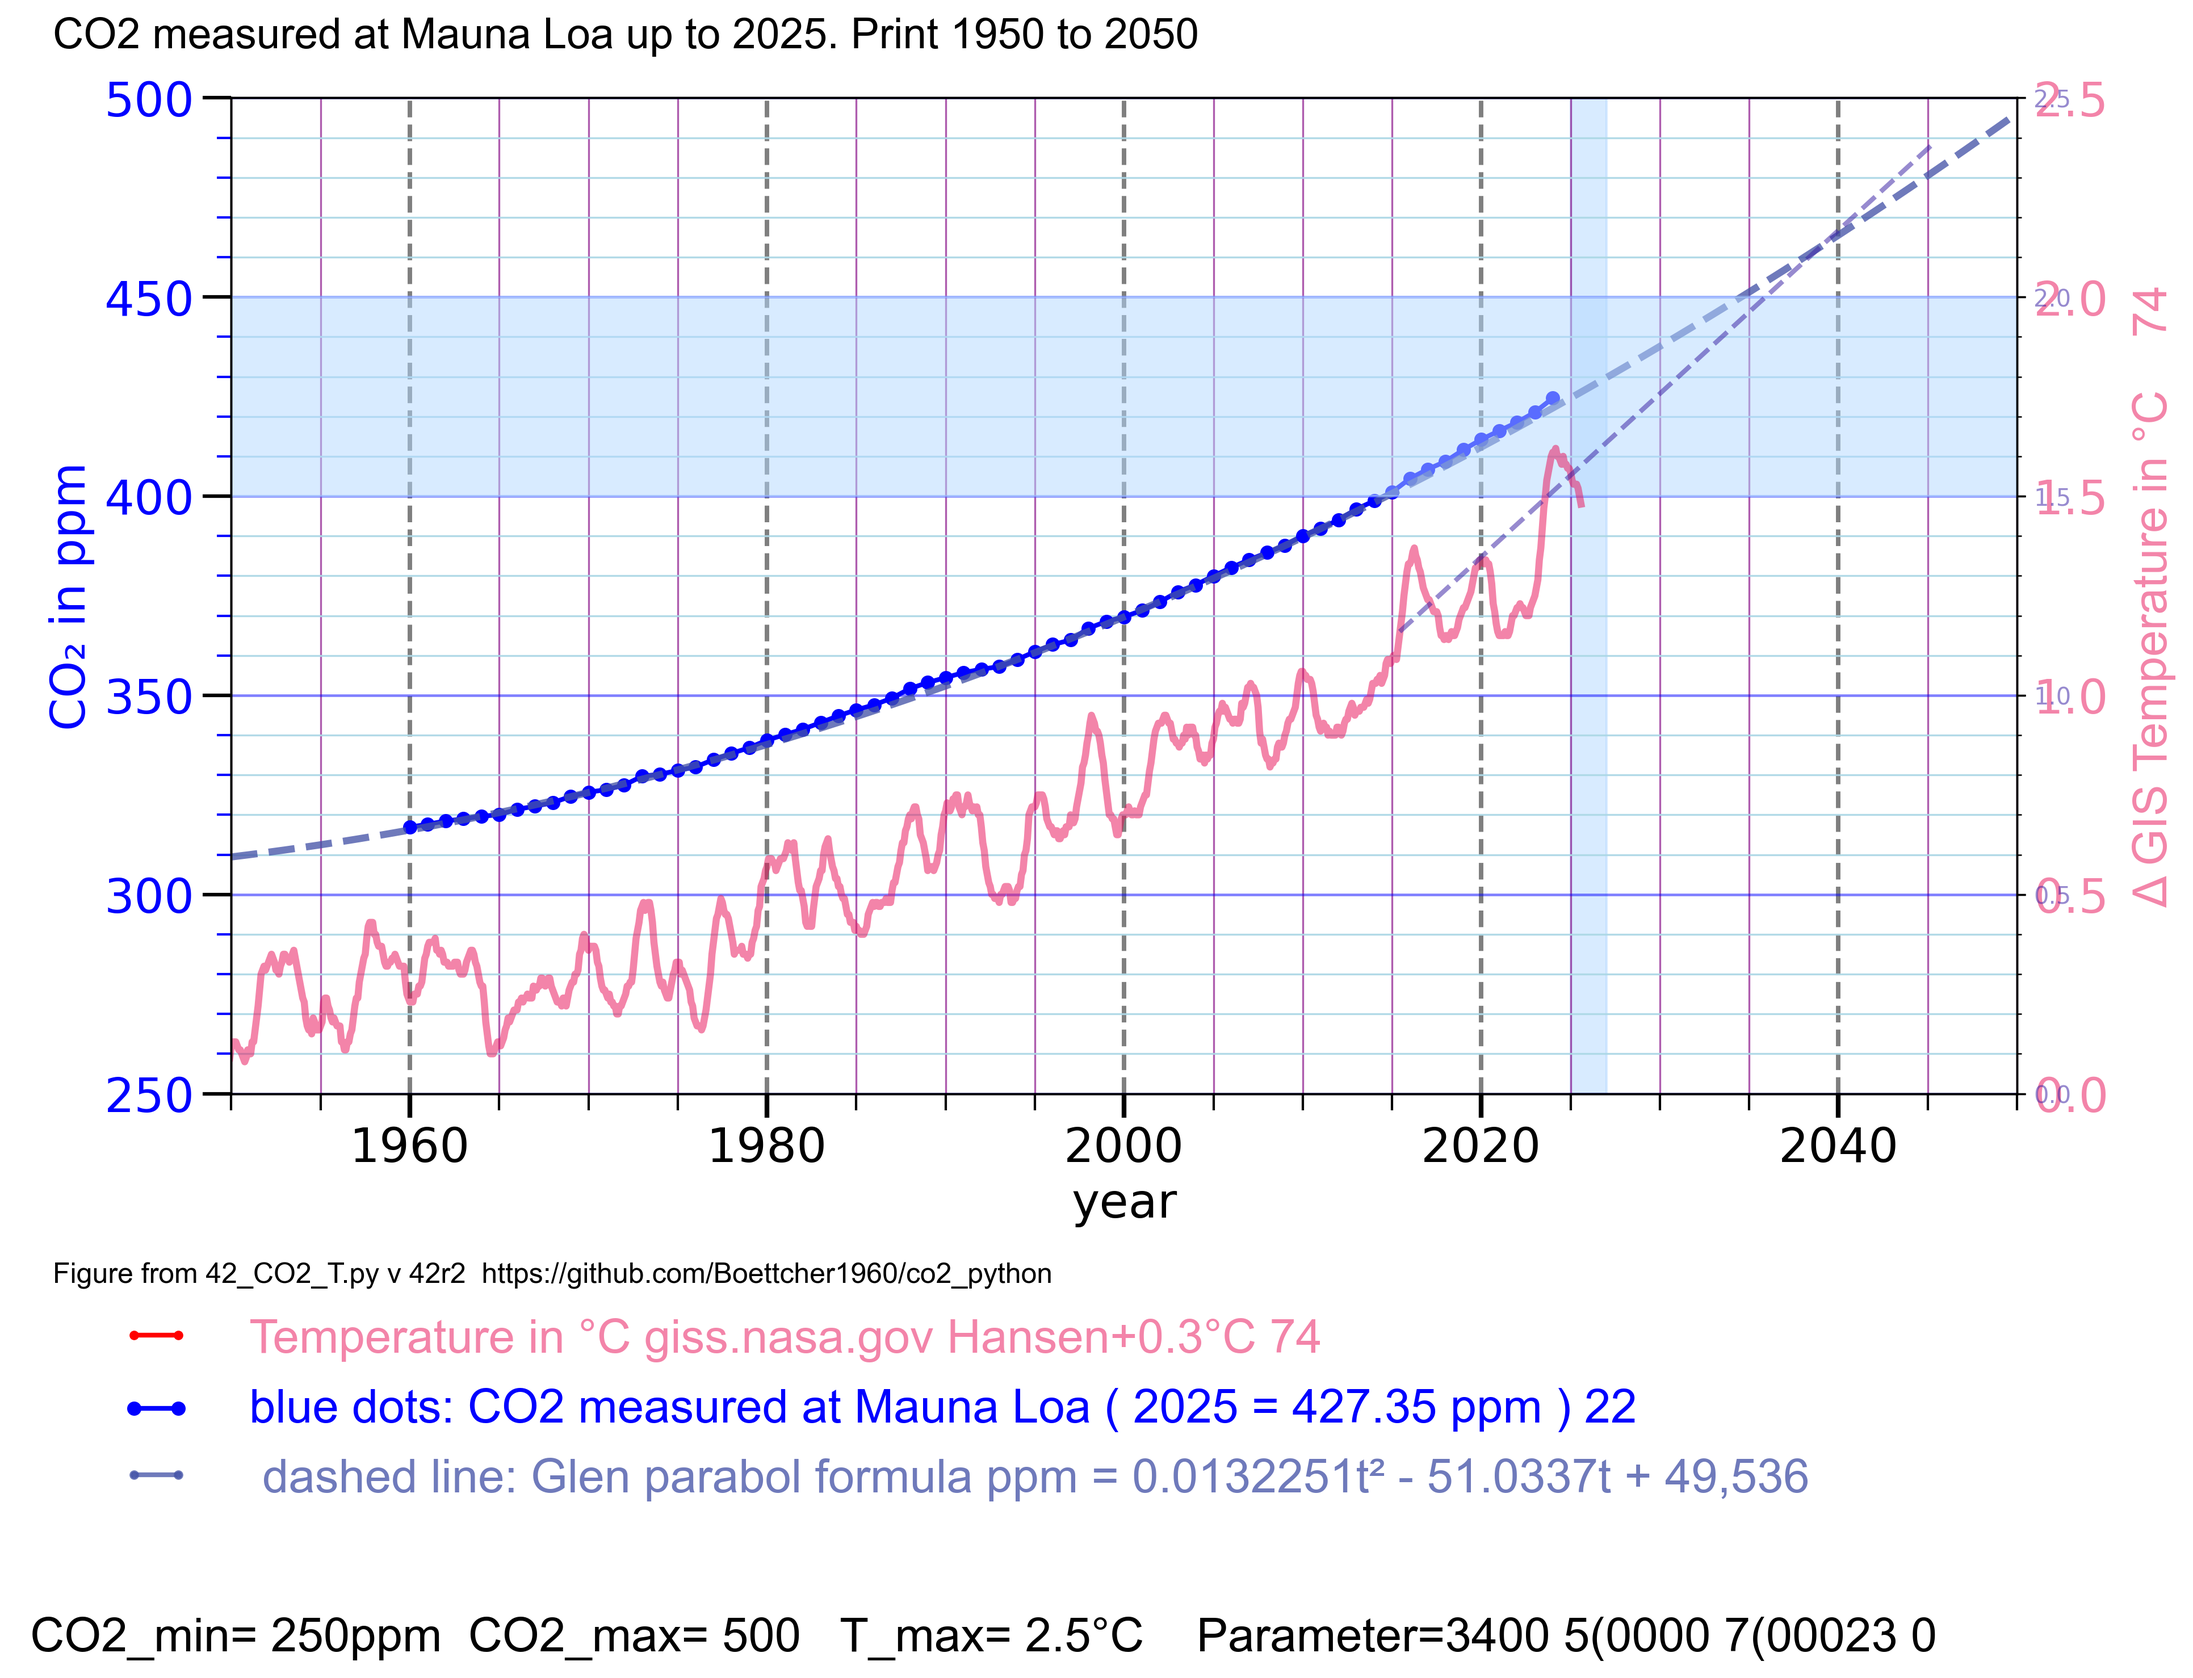
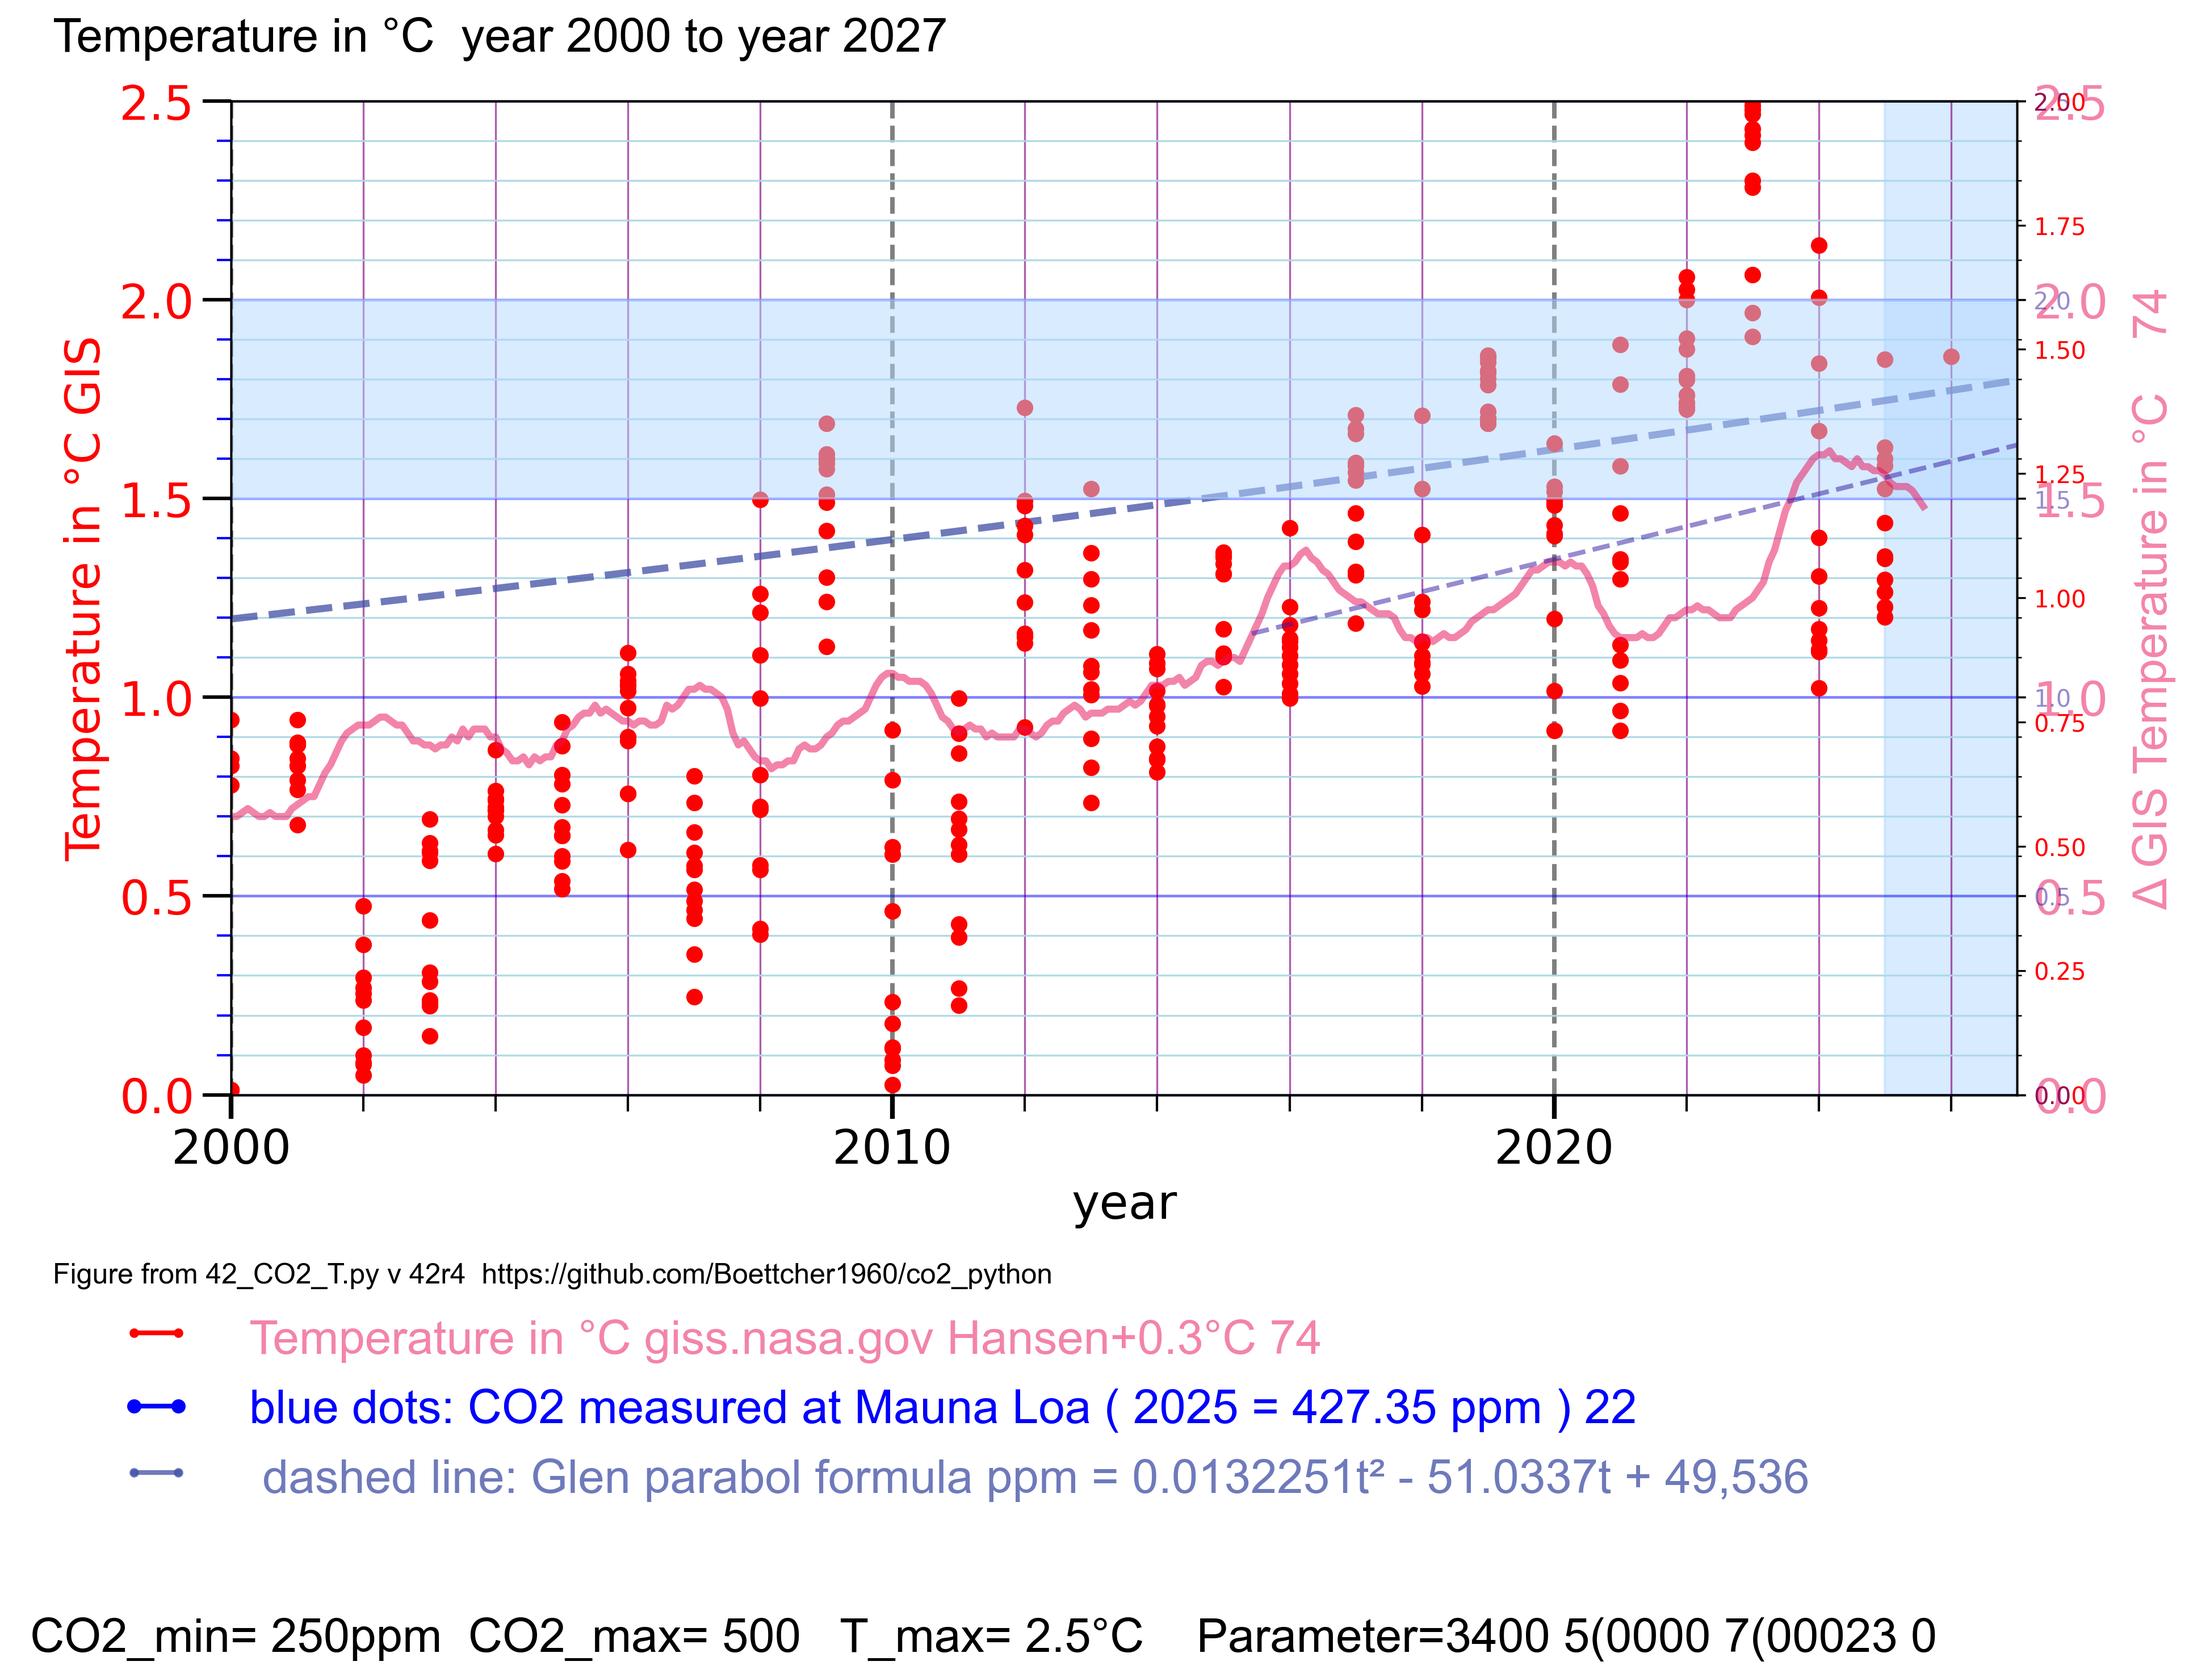
v = "42r4" #  CERES data if stored in csv41e_ceres.csv

Changed region(s): [[0.0311, 0.0, 0.994, 0.7158], [0.963, 0.4668, 0.994, 0.498]]

diff --git a/42_CO2_T.py b/42_CO2_T.py
@@ -1,5 +1,5 @@
 # 42_CO2_T.py 
-v = "42r3" #  CERES data if stored in csv41e_ceres.csv
+v = "42r4" #  CERES data if stored in csv41e_ceres.csv
 # Thomas Boettcher
 # part 1 configure 
 # part 2.2 plot CO2 Mauna Loa
@@ -108,8 +108,8 @@ y_max = 500 # 1300 # min value 440 70
 y_Tmin = 0 # min value °C
 y_Tmax = 2.5 # 1.6 4 # max value C
 
-x_anf = 1950 # 1960 2000 -33000
-x_end = 2050 # 2200 2026 
+x_anf = 2000 # 1960 2000 -33000
+x_end = 2027 # 2200 2026 
 
 # 1.4.5 scale the text rows below the plot field
 tr1x = -0.09 # text row 1 x value -.3...1 -0.12
@@ -506,13 +506,14 @@ if part41_ceres_eei == 12:
 
 # 4.3
 if part41_ceres_eei == 5:
+   c41 = "red"
    print41_text ="CERES EEI data moving average 12 month    41"
    df41 = pd.read_csv("csv/csv41/csv41e_ceres.csv") # 
    print(df41.head(2))
    ax41 = ax1.twinx()  # twinx(): Shares the same x-axis Adds a new y-axis on the right
    # part 7.4.6 add 0.3°C same as Hansen to GIS
-   ax41.plot(df41["Year41"], df41["EEI"]+0.1, '--', label="EEI  K41", color=c75, linewidth=2)
-   ax41.tick_params(axis="y", labelcolor=c75)
+   ax41.plot(df41["Year41"], df41["EEI"], 'o', label="EEI  K41", color=c41, linewidth=2)
+   ax41.tick_params(axis="y", labelcolor=c41)
    ax41.set_ylim(0, 2) # scale
 
 
